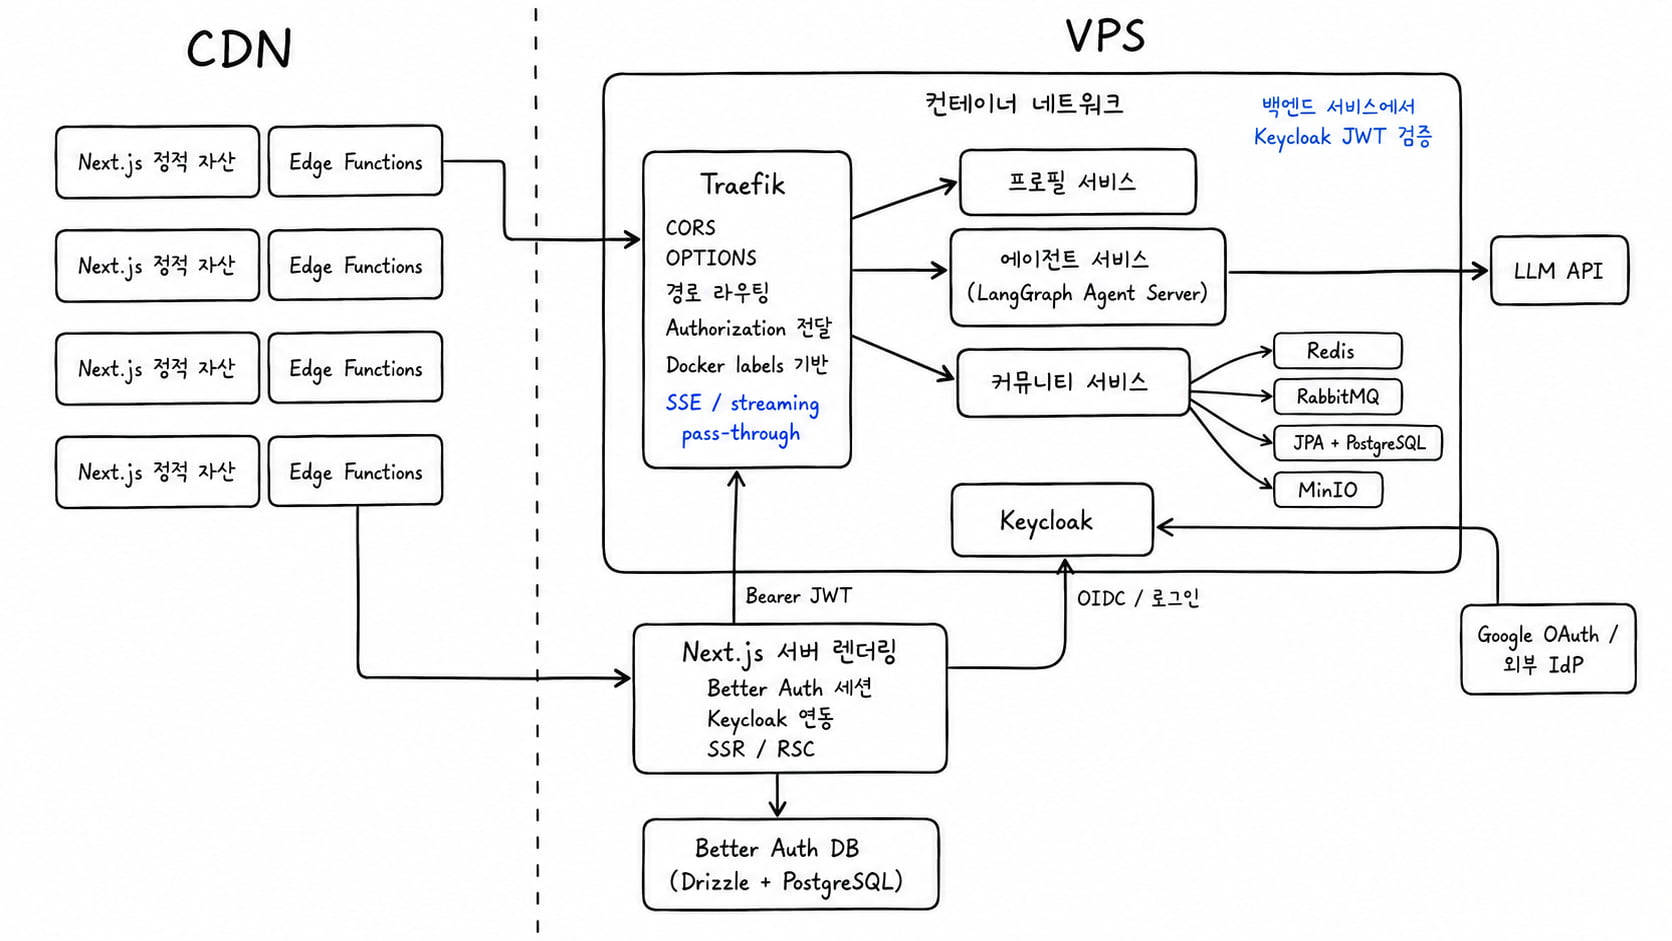
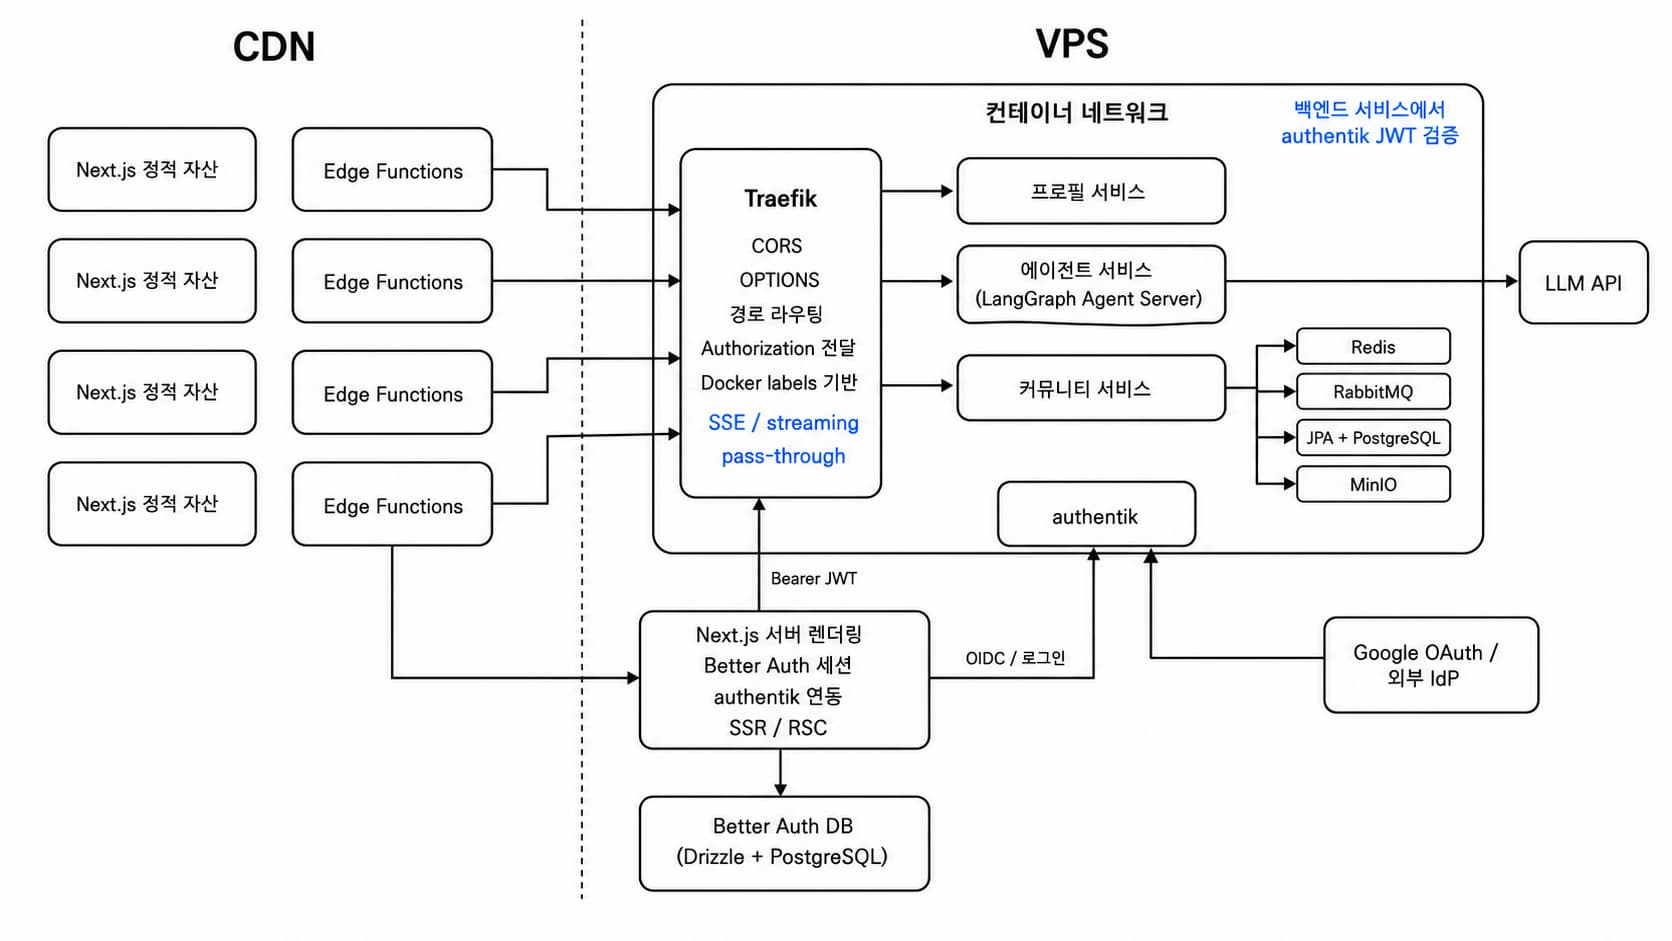
docs: 문서 업데이트

Changed region(s): [[0.0311, 0.0, 0.9952, 0.9862], [0.0933, 0.0308, 0.1866, 0.0925], [0.2177, 0.7088, 0.2488, 0.7396]]

diff --git a/frontend/src/features/auth/components/sign-in-client.tsx b/frontend/src/features/auth/components/sign-in-client.tsx
@@ -26,7 +26,7 @@ export default function SignInClient({
           })
         }}
       >
-        Continue with Google
+        Continue with Authentik
       </Button>
 
       <div>

diff --git a/README.md b/README.md
@@ -1,34 +1,58 @@
-# nginx-msa
+# 프로젝트 설명
 
-authentik을 이용한 OIDC/JWT 발급 및 Traefik을 이용한 MSA 보일러플레이트입니다.
+![Architecture](docs/assets/architecture-low-quality.jpg)
 
-## 인증 구조
+authentik을 이용한 JWT 발급 및 Traefik을 이용한 MSA 프로젝트입니다. 별도의 discovery 없이 docker compose의 라벨을 사용합니다.
 
-```txt
-Google
-  -> authentik Google OAuth Source
-  -> authentik OAuth2/OIDC Provider (pickle-web)
-  -> Better Auth genericOAuth
-  -> frontend Bearer access token
-  -> backend services JWKS/issuer/audience 검증
-```
+## 실행법
 
-앱은 Google을 직접 신뢰하지 않습니다. Google은 authentik 내부 Source로만 사용하고, 프론트엔드와 백엔드는 authentik OIDC provider만 바라봅니다.
+- Docker 의 Deamon 이 설치되어 있어야 합니다.
+- node, npm, python, uv가 설치되어 있어야 하며 java 21로 설정되어 있어야 합니다.
+- `.env.example`을 참고하여 프로젝트 루트에서 make dev를 실행하면 compose가 빌드되고 localhost:3000으로 next.js의 클라이언트가 실행됩니다.
 
-## 주요 서비스
+## MSA 기능 설명
 
-- `authentik-server` / `authentik-worker`: OIDC IdP 및 Google social login source 관리
-- `frontend`: Next.js + Better Auth genericOAuth
-- `traefik`: API gateway / CORS
-- `profile-service`, `agent-service`, `community-service`: authentik access token 검증
+- **인증서버**
+  - authentik을 이용하여 OAuth 2.0 및 OpenID Connect 기반으로 JWT 토큰 발급 및 통합 인증을 처리합니다.
+- **게이트웨이**
+  - Traefik을 사용하여 API 라우팅을 자동화하며, Docker Compose Label 기반으로 서비스들을 게이트웨이에 동적 등록합니다.
+  - 별도의 디스커버리 없이 Docker Compose Label 을 사용하므로 신규 서비스 등록시 참고.
+- **프론트엔드**
+  - 프론트엔드 next.js에서 클라이언트 요청을 프록시합니다.
+  - orval을 통해 zod, react suspense query 등을 swagger와 연동하여 생성합니다. Traefik에서 발신하는 Docker Compose Label을 참조합니다.
+- **frontend/orval.config.ts. docker-compose.yml, Makefile**
+  - MSA 아키텍처 구성을 위해 필요한 빌드 설정들입니다. Traefik 게이트웨이를 띄워야 아키텍처가 정상 동작합니다.
+- backend/services/echo-service
+  - 게이트웨이 내부에서 다른 서비스를 호출하는 예시가 포함되어 있습니다.
+- **backend\services\community-service**
+  - JWT 토큰을 소비하여 유저 테이블에 새로운 유저 데이터를 삽입하는 예시, JWT를 통한 인가로 CRUD하는 예시가 포함되어 있습니다.
+  - REDIS를 이용한 캐싱과 RabbitMQ를 이용한 비동기 작업이 포함되어 있습니다.
 
-## 로컬 시작
+## 에이전트
 
-```bash
-cp .env.example .env
-cp frontend/.env.example frontend/.env
-# .env의 AUTHENTIK_SECRET_KEY, PG_PASS, Google OAuth 값을 교체한 뒤 실행
-docker compose up -d
-```
+LangGraph Agent Server로 V2 Stream Events를 열고, 프론트엔드에서 @Langgraph/react 로 소비
 
-초기 설정 및 Google Source 연결은 `backend/authentik/README.md`를 확인하세요.
+- **도구호출**
+  - LangGraph를 이용한 Low Level 하네스를 구현하여 Tool Call Loop 구현
+  - 관련 파일 :
+    - [graph.py](backend/services/agent-service/src/agent/services/chat/graph.py) : 저수준 StateGraph 및 노드/엣지 정의
+    - [nodes.py](backend/services/agent-service/src/agent/services/chat/nodes.py) : chat model 호출 및 도구 바인딩 노드
+    - [langgraph-chat-stream-provider.tsx](frontend/src/features/llm-chat/hooks/langgraph-chat-stream-provider.tsx) : `@langchain/react` useStream SSE 스트림 및 상태 관리
+
+- **Permissions & HITL**
+  - 클라이언트 측에서 context를 주입하도록 구현
+  - context에 따라 인터럽트 후 사용자 피드백 전송하도록 HITL 구현
+  - 관련 파일 :
+    - [nodes.py](backend/services/agent-service/src/agent/services/chat/approvals/nodes.py) : 승인 게이트(`approval_gate`) 및 승인된 도구 실행 노드
+    - [policy.py](backend/services/agent-service/src/agent/services/chat/approvals/policy.py) : 사용자 컨텍스트 기반 도구 승인 필요 여부 판정 정책
+    - [langgraph-chat-stream-provider.tsx](frontend/src/features/llm-chat/hooks/langgraph-chat-stream-provider.tsx) : 인터럽트 수신 및 `stream.respond`를 통한 사용자 피드백(HITL) 전송
+    - [build-submit-config.ts](frontend/src/features/llm-chat/lib/langgraph/build-submit-config.ts) : allowed_tools 및 interrupt_on 컨텍스트 설정 생성
+    - [schemas.py](backend/services/agent-service/src/agent/services/chat/approvals/schemas.py) : 프론트엔드/백엔드 경계면으로 동작하며, HITL 요청 및 응답 데이터 구조(HitlRequest, HitlResume, HitlDecision 등)를 정의하고 요청을 받아 상태(state)에 반영하는 인터페이스 역할
+
+- **Evals**
+  - AI Agent와 하네스를 실제로 호출하여 테스트 시나리오를 통과하는지 검증
+  - 관련 파일 :
+    - [client.py](backend/services/agent-service/evals/agent_eval/client.py) : Protocol V2 기반 SSE 스트림 및 커맨드 전송 HTTP 클라이언트
+    - [runner.py](backend/services/agent-service/evals/agent_eval/runner.py) : 평가 시나리오 실행 및 인터럽트 재개 처리 흐름 제어
+    - [sse.py](backend/services/agent-service/evals/agent_eval/sse.py) : 평가 검증용 SSE 프레임 파서 및 유틸리티
+    - [validators.py](backend/services/agent-service/evals/agent_eval/validators.py) : 실행 이벤트 및 작업 결과 검증 모듈